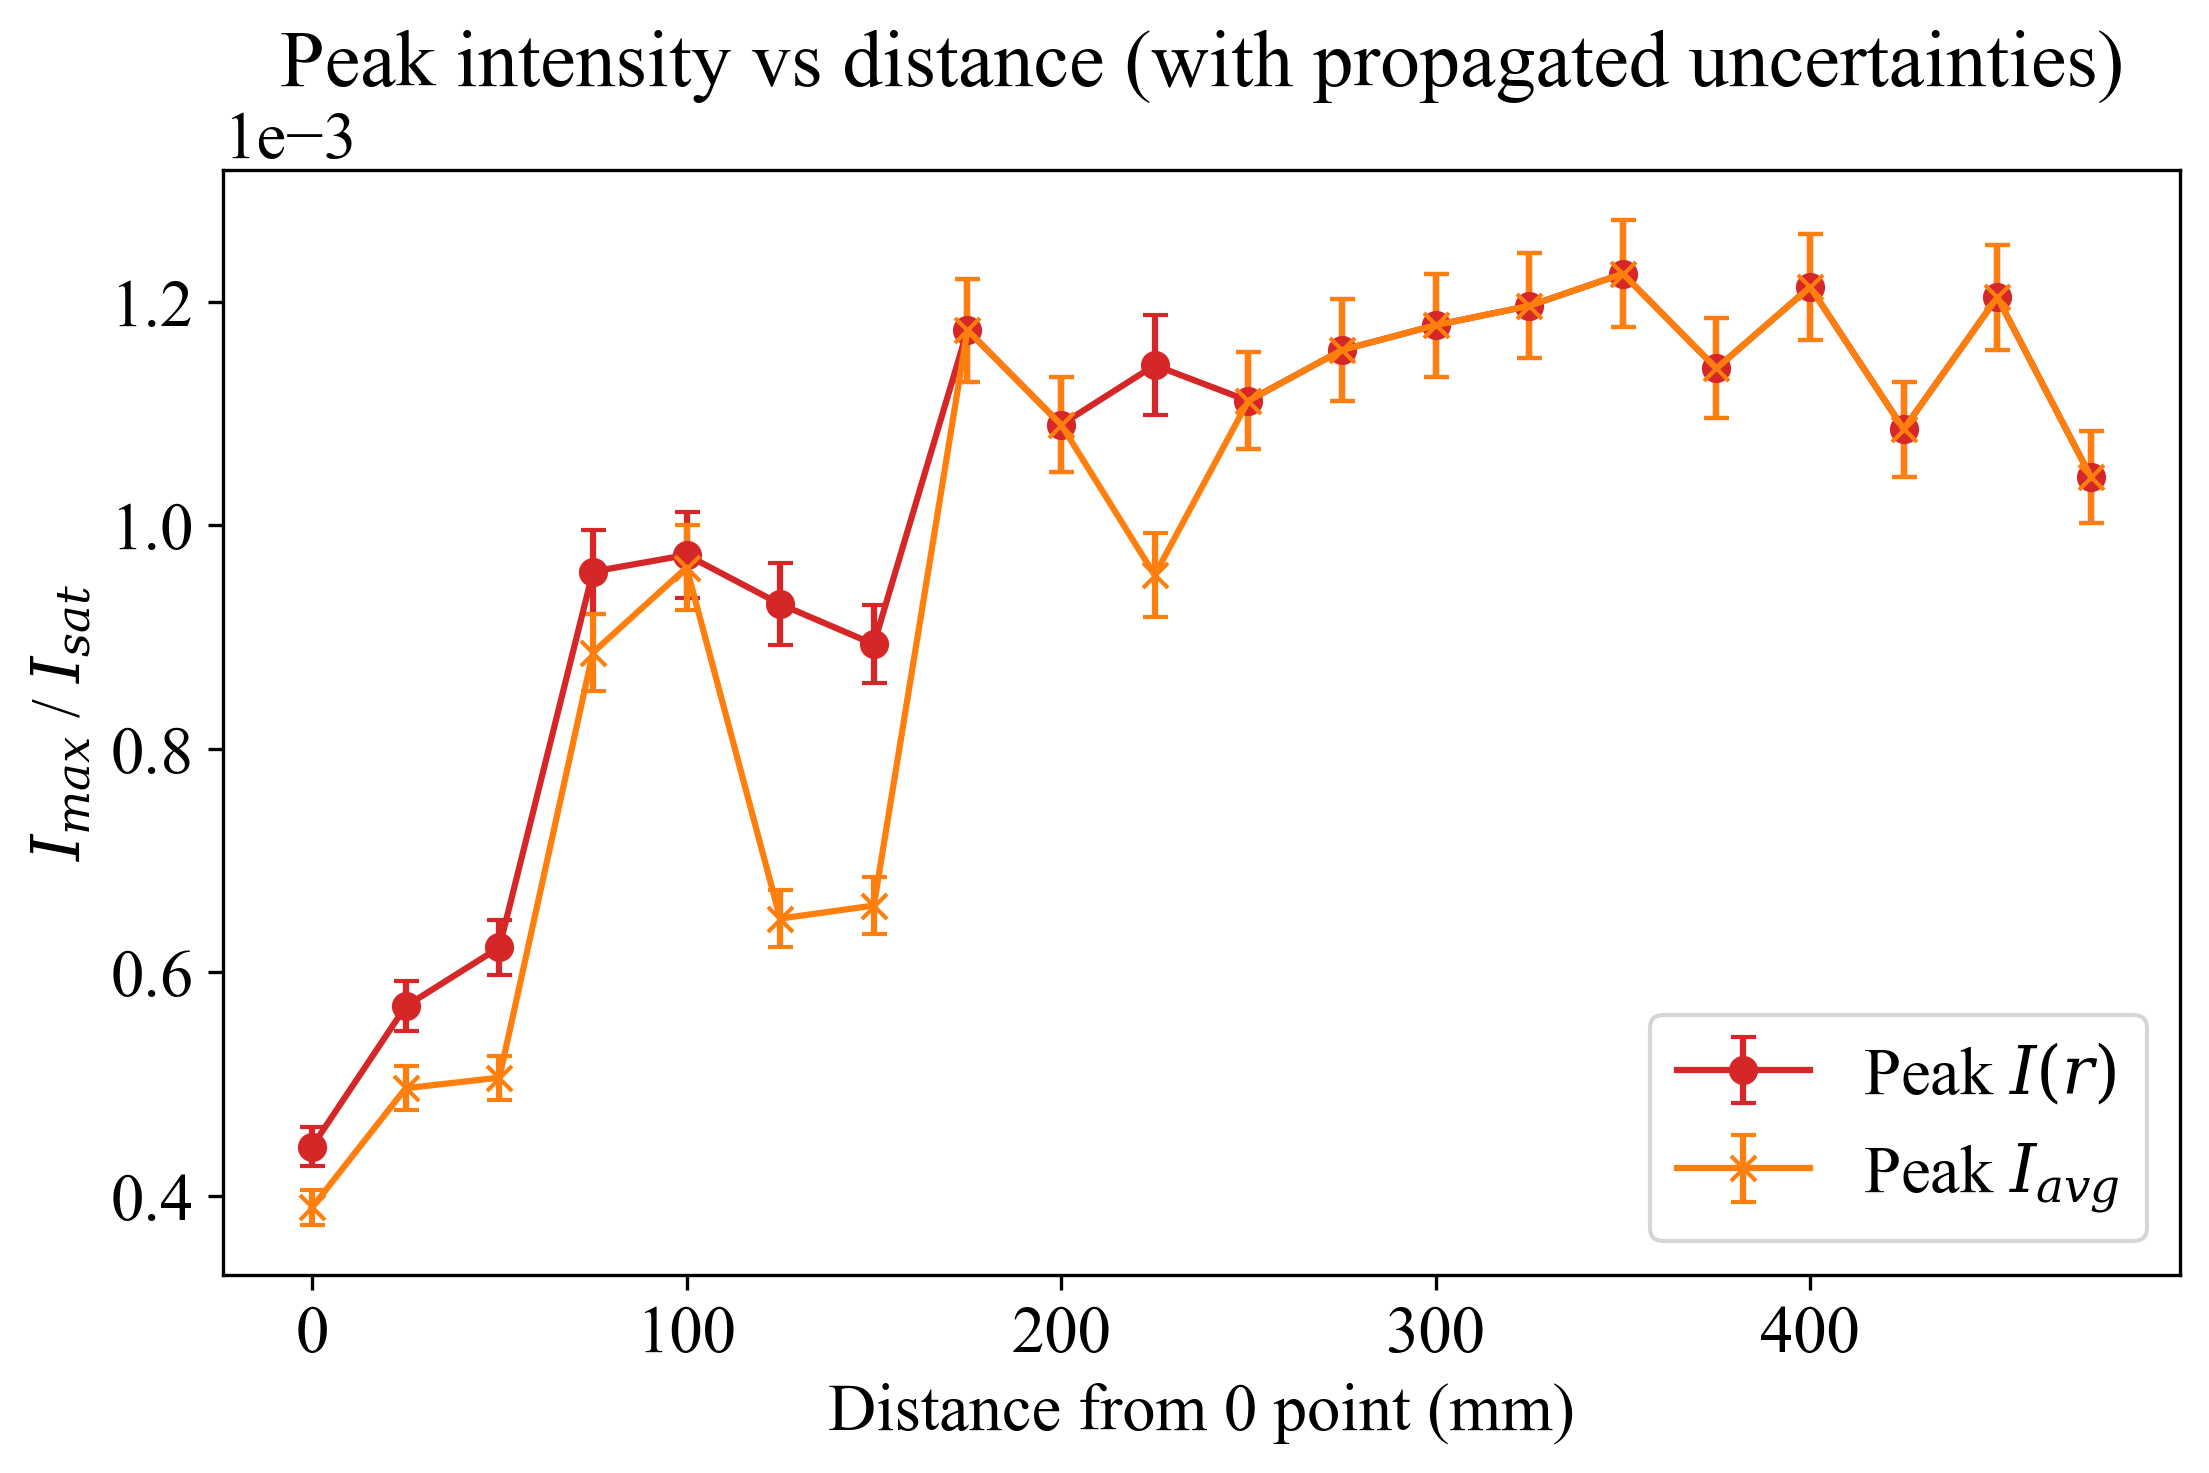
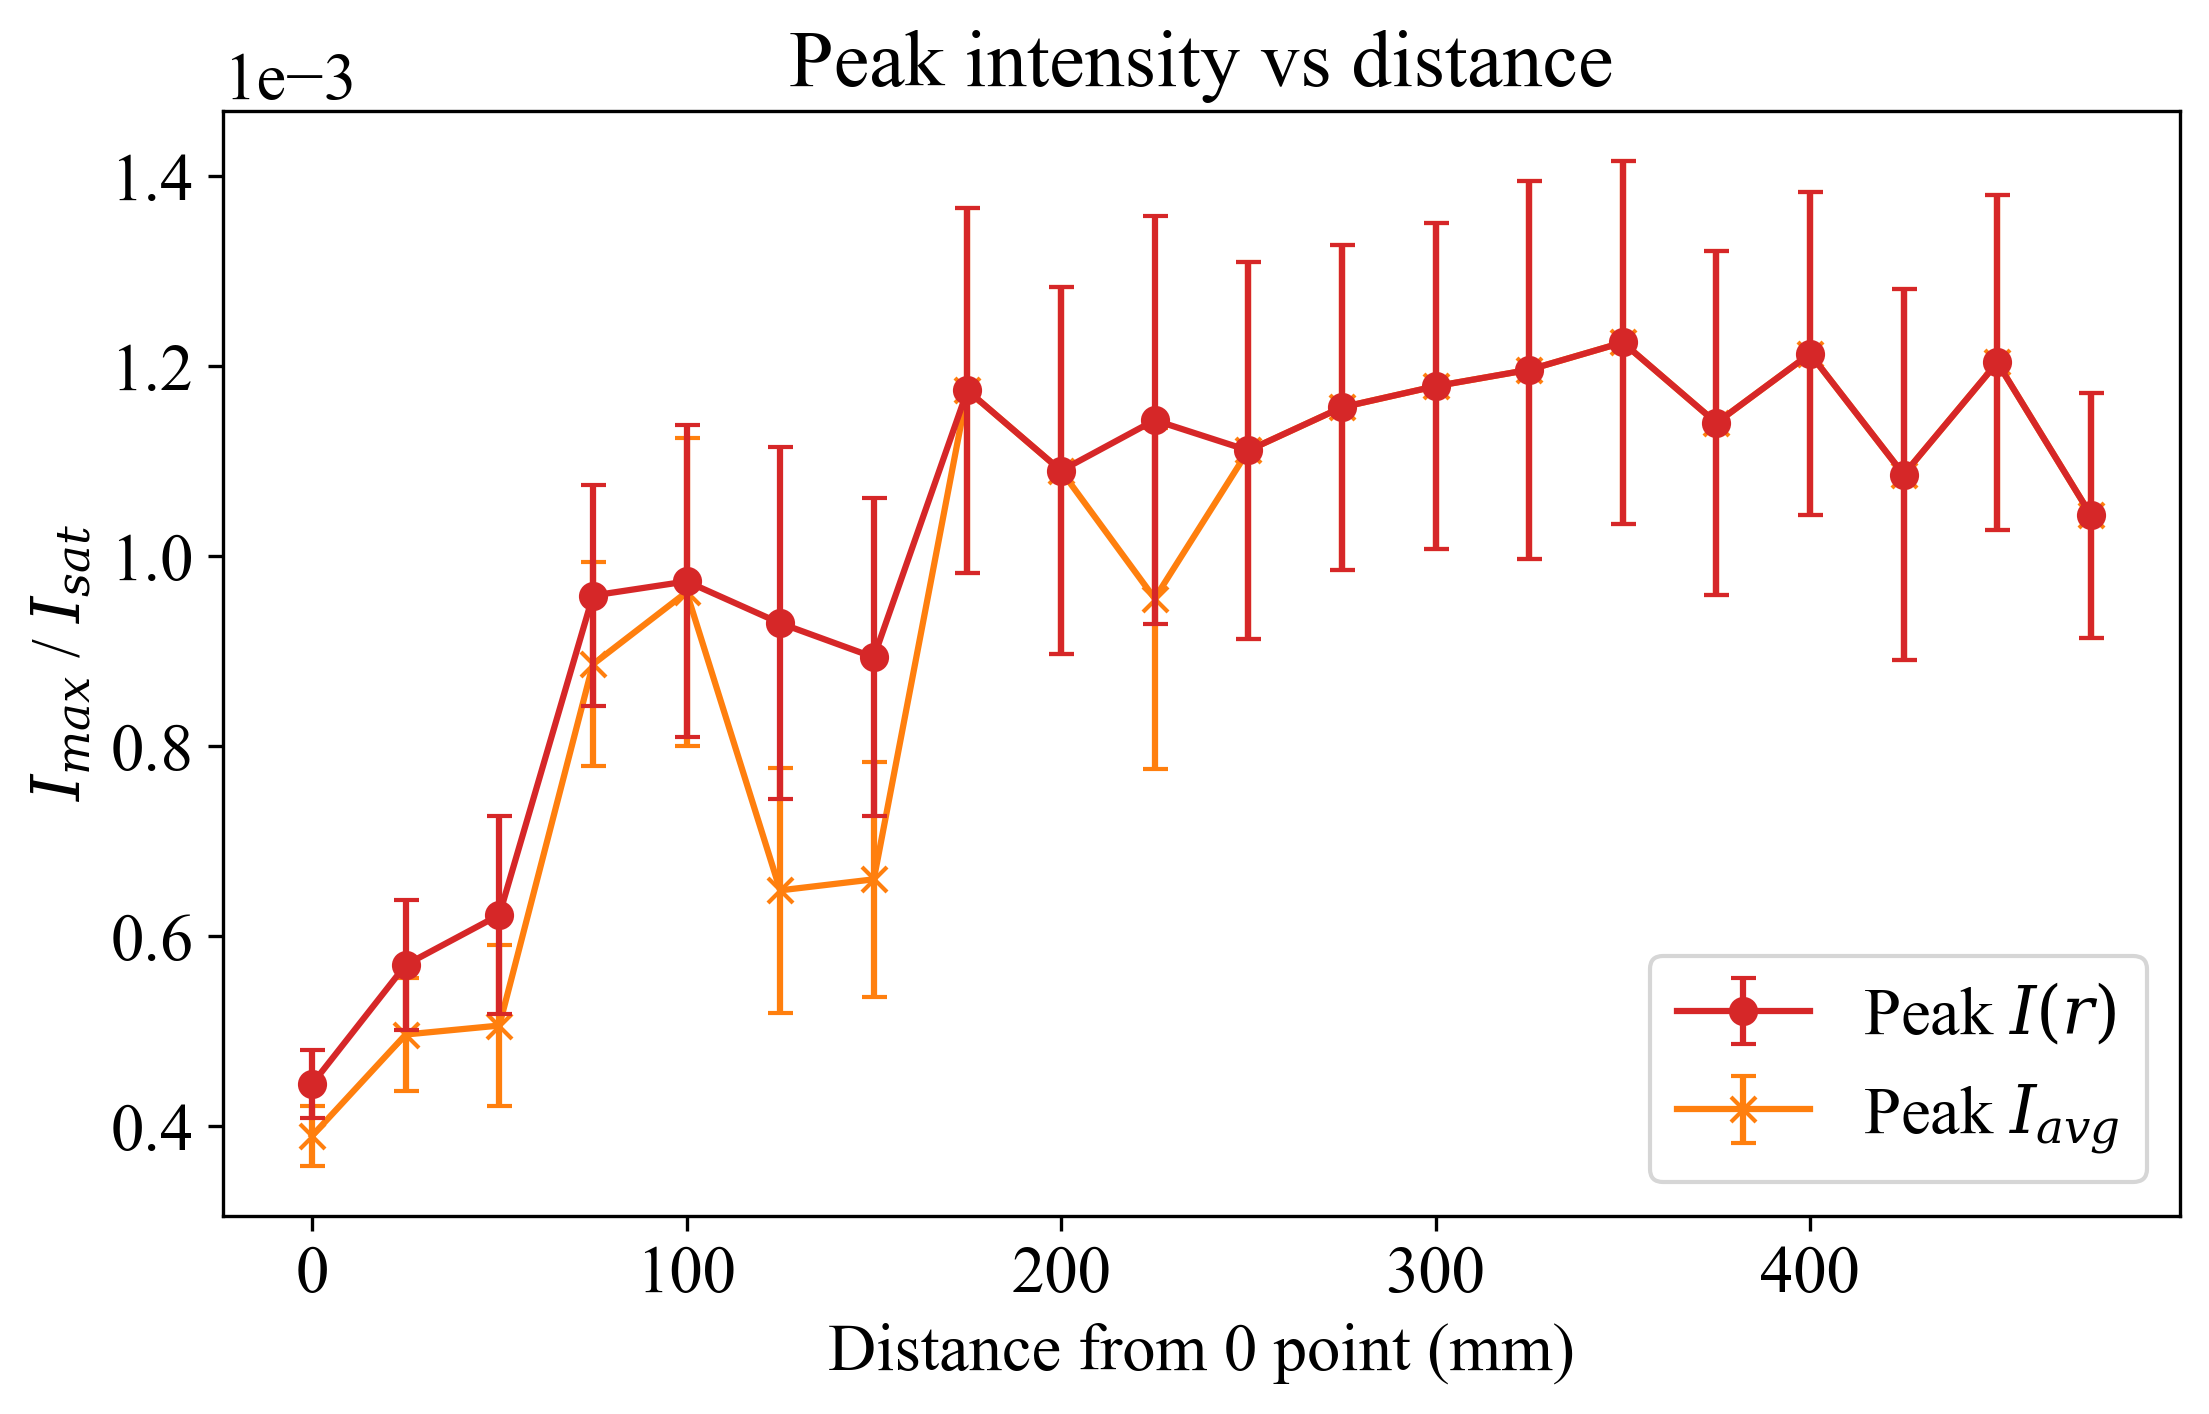
39

diff --git a/imageIntegration.py b/imageIntegration.py
@@ -30,7 +30,7 @@ rcParams['font.size'] = fontsz
 rcParams['mathtext.fontset'] = 'dejavuserif' # or 'cm', 'stix', 'custom'
 
 focus_distance = None # Only show a certain distance
-
+plot_main = False
 save_all_plots = True
 #save_all_plots = False
 
@@ -135,7 +135,7 @@ def process_image(distance, centre=None, exposure=None, normalise=False):
 
 	profile_x = r * pixel_size #radial size in m
 	profile_y = (P_r_unnorm * (scale_factor / pixel_area)) / (np.pi * 2) # average intensity per radius
-	r_safe = r
+	r_safe = r.copy()
 	r_safe[0] = r_safe[1]
 	I_avg_area = P_encircled / (np.pi * r_safe**2)  # avoid divide-by-zero at r=0
 	I_avg_area[0] = 0
@@ -177,7 +177,6 @@ for d, info in beam_images.items():
 		"I_Ave_max": I_ave_peak,
 	}
 
-plot_main = not False
 if plot_main:
 	# --- Decide what to plot ---
 	if focus_distance is not None:
@@ -409,7 +408,7 @@ print(f"Standard error = {sem_unscaled:.3e} W")
 # (1) Scale factor from calibration
 scale_factor = p_total / mean_unscaled
 u_scale = scale_factor * np.sqrt(
-    (sem_unscaled / mean_unscaled) ** 2 + (p_total_error / p_total) ** 2
+	(sem_unscaled / mean_unscaled) ** 2 + (p_total_error / p_total) ** 2
 )
 
 print(f"\nScale factor k = {scale_factor:.6g} ± {u_scale:.6g}  (rel {u_scale/scale_factor:.3%})")
@@ -423,24 +422,77 @@ rel_I_div_Isat_unc = np.sqrt(rel_scale_unc**2 + rel_Isat_unc**2)
 
 print(f"Relative uncertainty in I/I_sat: {rel_I_div_Isat_unc:.3%}")
 
-# (4) Example: propagate to per-image peaks
+# --- Estimate detector noise from dark region of polar images ---
+# Uses r = 700–900 pixels region (far outside beam centre)
+# This works better for near-field images where the beam fills the frame.
+
+print("\nEstimating per-image noise from polar dark regions...")
+
+r_noise_min, r_noise_max = 700, 900  # radial range (pixels) for dark background
+
 for d in results:
-    Imax = results[d]["I_max"]
-    Iavg = results[d]["I_Ave_max"]
+	polar = results[d]["polar_img"]
+	nr, nt = polar.shape
 
-    # Absolute uncertainties on intensities (include only scale factor)
-    u_Imax = Imax * rel_scale_unc
-    u_Iavg = Iavg * rel_scale_unc
+	# Convert the target range to indices safely within bounds
+	r_idx_min = int(max(0, min(nr - 1, r_noise_min)))
+	r_idx_max = int(max(0, min(nr - 1, r_noise_max)))
 
-    # Propagate to normalised intensities (include I_sat)
-    Imax_norm = Imax / I_sat
-    Iavg_norm = Iavg / I_sat
-    u_Imax_norm = Imax_norm * rel_I_div_Isat_unc
-    u_Iavg_norm = Iavg_norm * rel_I_div_Isat_unc
+	if r_idx_max <= r_idx_min:
+		print(f"Warning: r range {r_noise_min}-{r_noise_max} px out of bounds for {d} mm (nr={nr}).")
+		continue
 
-    # Store for optional plotting with error bars
-    results[d]["u_I_max_norm"] = u_Imax_norm
-    results[d]["u_I_avg_norm"] = u_Iavg_norm
+	bg_region = polar[r_idx_min:r_idx_max, :].ravel()
+	sigma_pix = np.std(bg_region)
+
+	# crude de-correlation: assume ~10 pixels per independent sample
+	N_eff = max(1, bg_region.size // 10)
+	u_noise = (p_total / results[d]["P_total"]) * sigma_pix / pixel_area
+	u_noise_reduced = u_noise / np.sqrt(N_eff)
+	rel_noise = u_noise_reduced / results[d]["I_max"]
+	results[d]["rel_noise"] = rel_noise
+
+	# Optional: print summary for debugging
+	print(f"{d:>4} mm → σ_pix = {sigma_pix:.2e}, rel_noise = {rel_noise:.2%}")
+
+
+# --- Estimate uncertainty due to manual centre placement ---
+centre_error_px = 3.0  # estimated uncertainty in chosen beam centre [pixels]
+centre_error_m = centre_error_px * pixel_size
+
+print(f"\nEstimating per-image uncertainty from ±{centre_error_px:.0f} px centre placement...")
+
+for d in results:
+	x_prof_m = results[d]["x_prof"]  # already in metres
+	y_prof = results[d]["y_prof"]    # I(r) profile (W/m²)
+
+	# Gradient of radial intensity profile
+	dy_dr = np.gradient(y_prof, x_prof_m)
+	mask = y_prof > 0.05 * np.max(y_prof)
+	g_char = np.percentile(np.abs(dy_dr[mask]), 90) if np.any(mask) else 0.0
+	rel_centre_unc = (g_char * centre_error_m) / np.max(y_prof)
+	results[d]["rel_centre_unc"] = rel_centre_unc
+
+	print(f"{d:>4} mm → rel_centre_unc = {rel_centre_unc:.2%}")
+
+# (4) propagate to per-image peaks
+for d in results:
+	Imax = results[d]["I_max"]
+	Iavg = results[d]["I_Ave_max"]
+
+	# Include scale, Isat, and background noise uncertainties
+	rel_noise = results[d].get("rel_noise", 0)
+	rel_centre_unc = results[d].get("rel_centre_unc", 0)
+	rel_total_unc = np.sqrt(rel_scale_unc**2 + rel_Isat_unc**2 + rel_noise**2 + rel_centre_unc**2)
+
+	Imax_norm = Imax / I_sat
+	Iavg_norm = Iavg / I_sat
+	u_Imax_norm = Imax_norm * rel_total_unc
+	u_Iavg_norm = Iavg_norm * rel_total_unc
+
+	# Store for optional plotting with error bars
+	results[d]["u_I_max_norm"] = u_Imax_norm
+	results[d]["u_I_avg_norm"] = u_Iavg_norm
 
 # --- Optional print summary ---
 print("\nExample propagated uncertainties:")
@@ -462,12 +514,12 @@ plt.figure(figsize=(8, 5))
 
 # Plot with error bars
 plt.errorbar(
-    distances, I_max_values, yerr=u_I_max_norms,
-    fmt="o-", color="tab:red", capsize=3, label=r"Peak $I(r)$"
+	distances, I_max_values, yerr=u_I_max_norms,
+	fmt="o-", color="tab:red", zorder = 1, capsize=3, label=r"Peak $I(r)$"
 )
 plt.errorbar(
-    distances, I_Ave_max_values, yerr=u_I_Ave_norms,
-    fmt="x-", color="tab:orange", capsize=3, label=r"Peak $I_{avg}$"
+	distances, I_Ave_max_values, yerr=u_I_Ave_norms,
+	fmt="x-", color="tab:orange", zorder = 0, capsize=3, label=r"Peak $I_{avg}$"
 )
 
 plt.xlabel("Distance from 0 point (mm)")
@@ -482,3 +534,44 @@ if save_all_plots:
 	plt.savefig("I_max_distance_graph_errors", dpi=300, bbox_inches='tight')
 
 plt.show()
+
+# --- Print summary table of I/I_sat values with uncertainties (scientific format) ---
+print("\n" + "-"*75)
+print(" Summary of normalised intensities (I/I_sat) with uncertainties")
+print("-"*75)
+print(f"{'Distance (mm)':>13s} | {'I_max/I_sat':>25s} | {'I_avg/I_sat':>25s}")
+print("-"*75)
+
+for d in sorted(results.keys()):
+	Imax_norm = results[d]["I_max"] / I_sat
+	Iavg_norm = results[d]["I_Ave_max"] / I_sat
+	u_Imax_norm = results[d]["u_I_max_norm"]
+	u_Iavg_norm = results[d]["u_I_avg_norm"]
+
+	print(f"{d:13.0f} | {Imax_norm:10.3e} ± {u_Imax_norm:8.1e} | {Iavg_norm:10.3e} ± {u_Iavg_norm:8.1e}")
+
+print("-"*75)
+
+# --- Generate LaTeX table output (scientific notation) ---
+print("\nLaTeX table output:\n")
+print("\\begin{table}[h]")
+print("\\centering")
+print("\\caption{Normalised peak and average intensities with propagated uncertainties.}")
+print("\\begin{tabular}{ccc}")
+print("\\hline")
+print("Distance (mm) & $I_{\\max}/I_{\\mathrm{sat}}$ & $I_{\\mathrm{avg}}/I_{\\mathrm{sat}}$\\\\")
+print("\\hline")
+
+for d in sorted(results.keys()):
+	Imax_norm = results[d]["I_max"] / I_sat
+	Iavg_norm = results[d]["I_Ave_max"] / I_sat
+	u_Imax_norm = results[d]["u_I_max_norm"]
+	u_Iavg_norm = results[d]["u_I_avg_norm"]
+
+	Imax_str = f"${Imax_norm:.3e} \\pm {u_Imax_norm:.1e}$"
+	Iavg_str = f"${Iavg_norm:.3e} \\pm {u_Iavg_norm:.1e}$"
+	print(f"{d:>4} & {Imax_str} & {Iavg_str} \\\\")
+
+print("\\hline")
+print("\\end{tabular}")
+print("\\end{table}")
